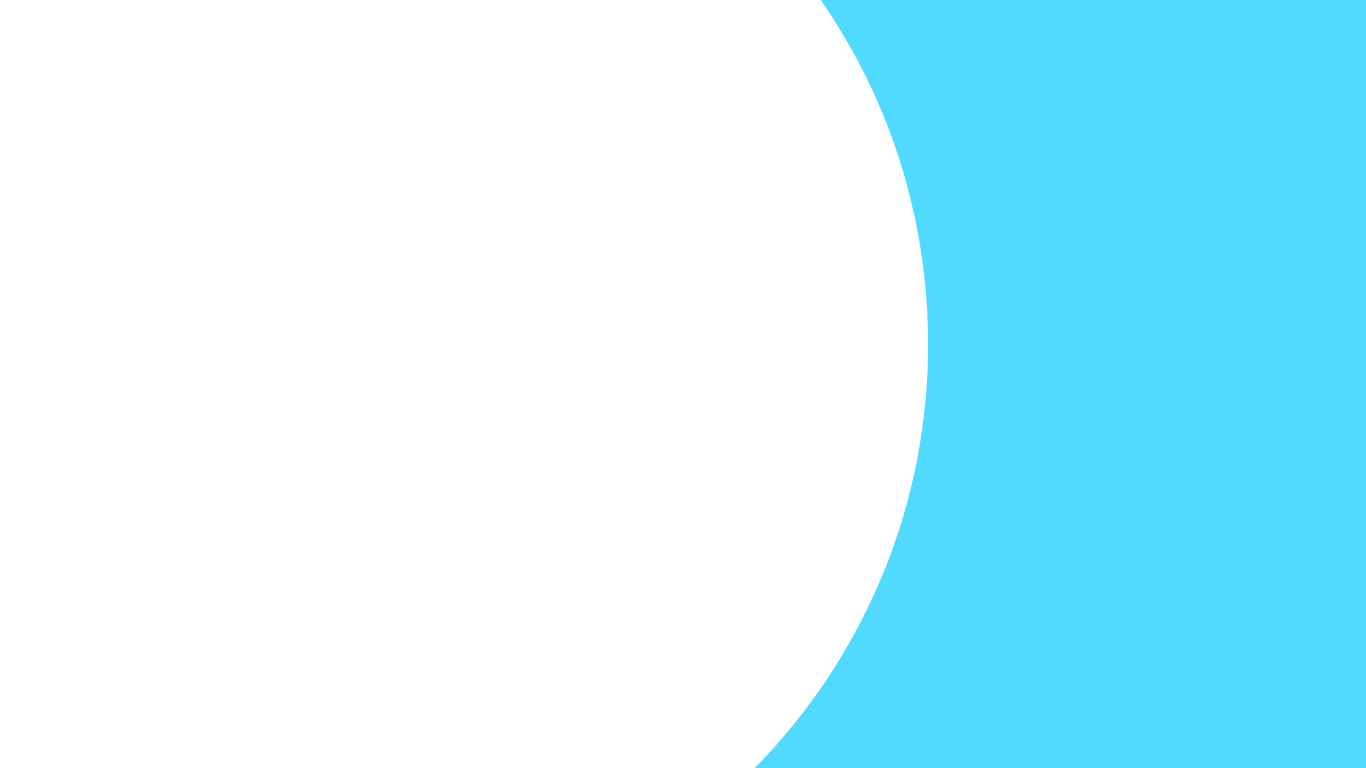
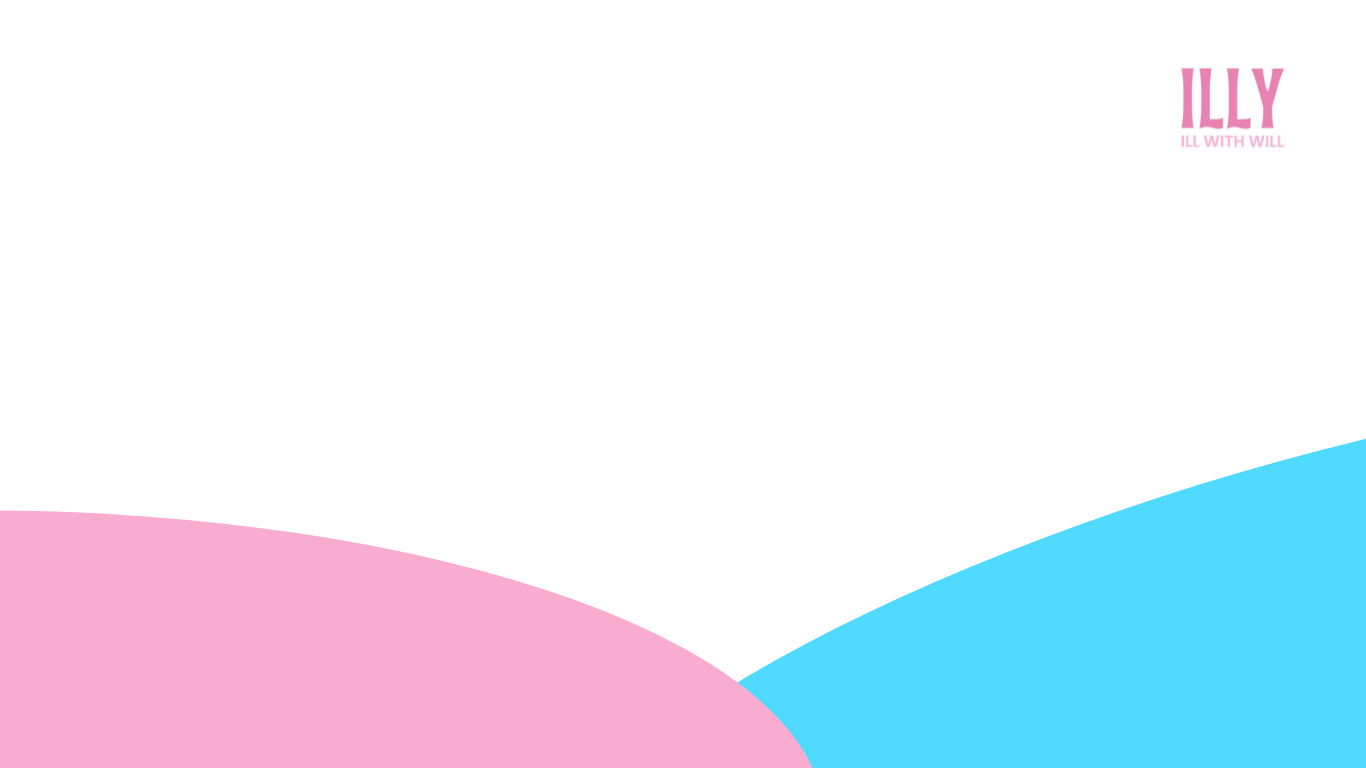
Changed background and added ILLY to the home page

diff --git a/BE/server.js b/BE/server.js
@@ -40,16 +40,17 @@ app.post("/chat", async (req, res) => {
 
     try {
         console.log("Sending a request");
-        const aiResponse = await anthropic.messages.create({
-            model: "claude-3-5-haiku-20241022",
-            max_tokens: 1024,
-            temperature: 0.7,
-            system: systemPrompt,
-            messages: trimmedHistory,
-        });
+        // const aiResponse = await anthropic.messages.create({
+        //     model: "claude-3-5-haiku-20241022",
+        //     max_tokens: 1024,
+        //     temperature: 0.7,
+        //     system: systemPrompt,
+        //     messages: trimmedHistory,
+        // });
 
         // Save assistant's response to history
-        const reply = aiResponse.content[0]?.text || "Atsiprašau, bet man nepavyko atsakyti.";
+        //const reply = aiResponse.content[0]?.text || "Atsiprašau, bet man nepavyko atsakyti.";
+        const reply = "Atsiprašau, bet man nepavyko atsakyti.";
         console.log("Got Response: ", reply);
         conversationHistory.push({ role: "assistant", content: reply });
 

diff --git a/src/App.tsx b/src/App.tsx
@@ -5,7 +5,7 @@ export const App = () => {
   return(
     <div className='mainContainer'>
       <ChatBox/>
-      <h1>ILLY</h1>
+      <img className="ILLY" src="ILLY.png" alt="Visualization of the plushy toy - ILLY"/>
     </div>
   );
 }

diff --git a/src/index.css b/src/index.css
@@ -15,4 +15,10 @@ body {
   display: flex;
   justify-content: space-around;
   align-items: center;
+
+  & img.ILLY{
+    height: 70vh;
+    position: relative;
+    margin-top: 60vh;
+  }
 }
